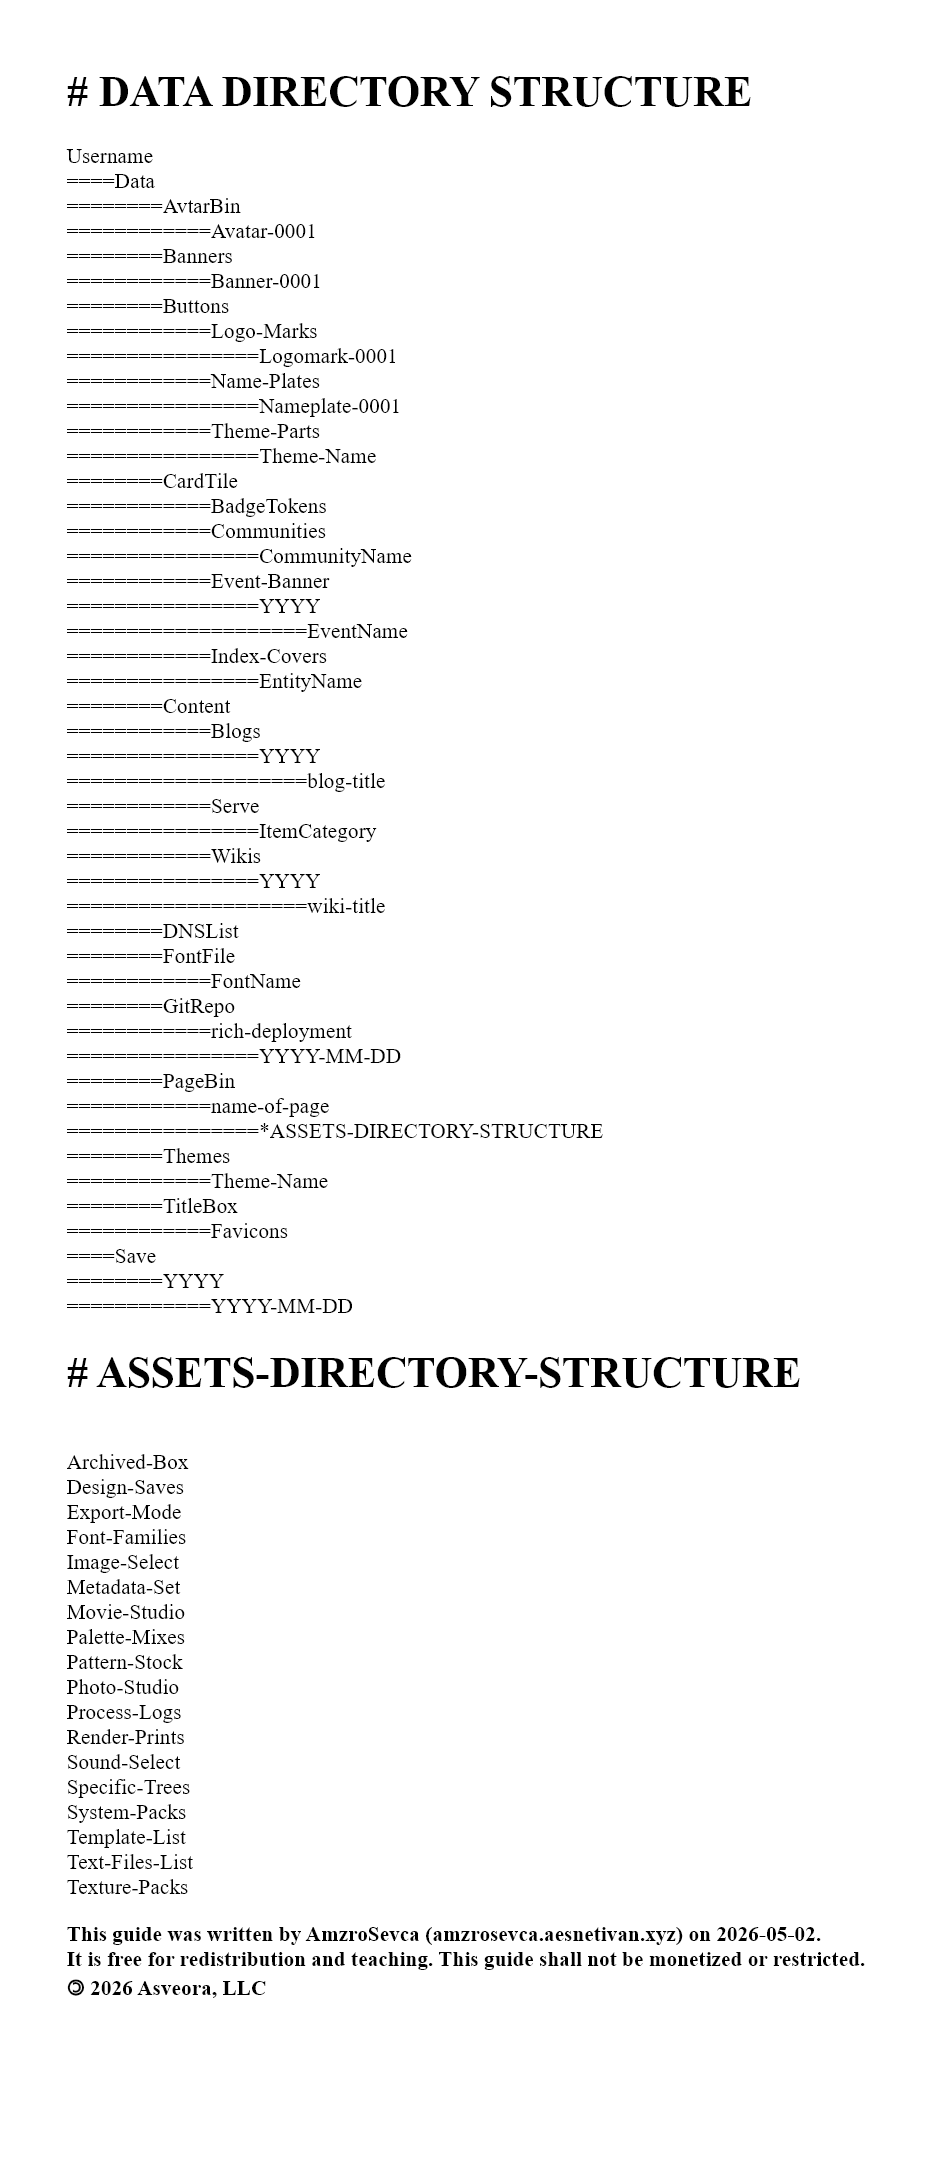
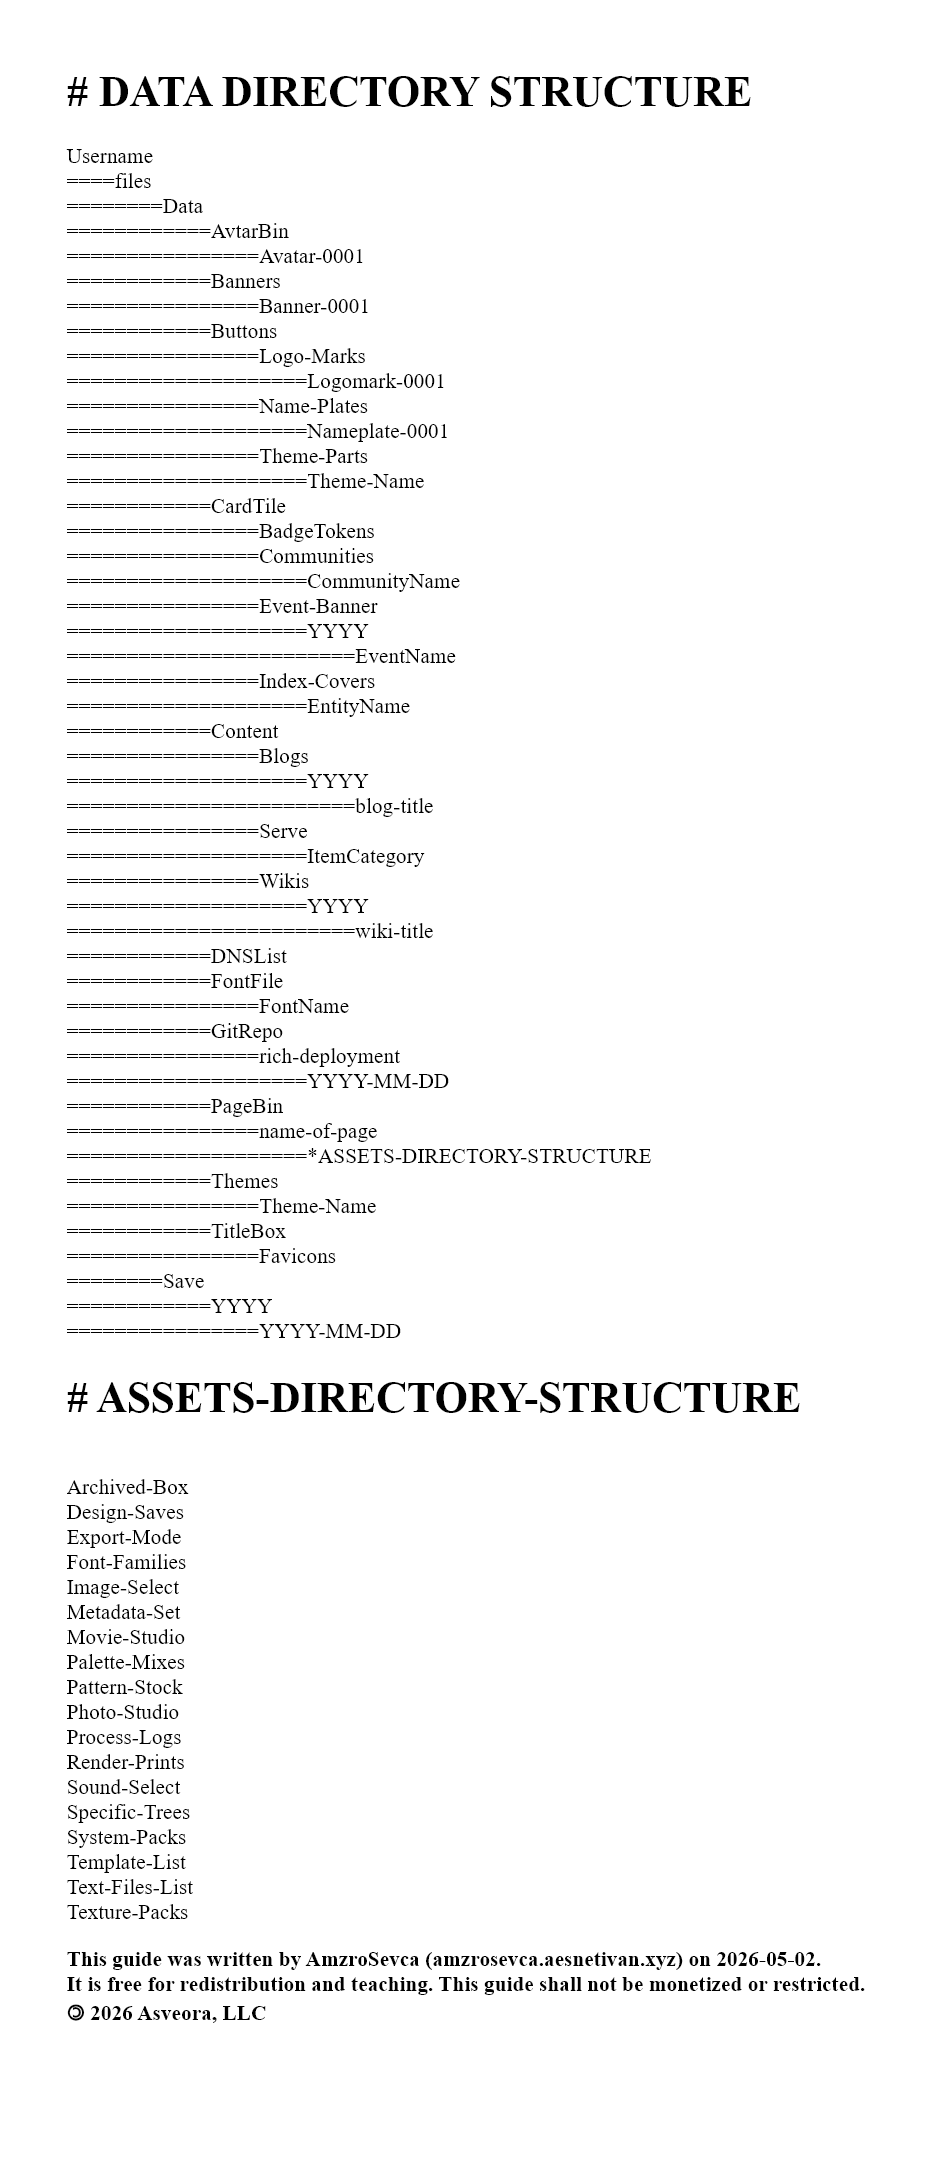
Documentation Update
Documentation update concerning the structuring of the user directory model.

Changed region(s): [[0.0617, 0.0931, 0.9255, 0.9306], [0.1234, 0.062, 0.1543, 0.0931]]

diff --git a/files/index.html b/files/index.html
@@ -227,7 +227,7 @@
 
 				<div class="profile-home-card-entry">
 					<div class="profile-home-card-img-area">
-						<img class="profile-home-card-image" alt="Blank white image." data-original-height="512" data-original-width="512" width="3840" height="2160" src="/media/Content/Wikis/wiki-page-v1/Image-Select/Pexels_Iriser_Berries_Photo_CMS.jpg"/>
+						<img class="profile-home-card-image" alt="Wiki Entry" data-original-height="512" data-original-width="512" width="3840" height="2160" src="https://cdn.asveora.social/Content/Wikis/wiki-page-v1/Image-Select/Pexels_Iriser_Berries_Photo_CMS.jpg"/>
 					</div>
 					<div class="profile-home-card-text-area">
 						<span class="profile-home-card-text"><b>Wiki<br>Entry</b></span>
@@ -238,10 +238,10 @@
 
 				<div class="profile-home-card-entry">
 					<div class="profile-home-card-img-area">
-						<img class="profile-home-card-image" alt="Blank white image." data-original-height="512" data-original-width="512" width="3840" height="2160" src="/media/Content/Wikis/wiki-page-v1/Image-Select/Pexels_Iriser_Berries_Photo_CMS.jpg"/>
+						<img class="profile-home-card-image" alt="Quick Deployment" data-original-height="512" data-original-width="512" width="3840" height="2160" src="https://cdn.asveora.social/Content/Wikis/quick-deployment/Image-Select/Quick_Deployment_Cover_M4X.png"/>
 					</div>
 					<div class="profile-home-card-text-area">
-						<span class="profile-home-card-text"><b>Wiki<br>Entry</b></span>
+						<span class="profile-home-card-text"><b>Quick<br>Deploy</b></span>
 					</div>
 				</div>
               
@@ -249,10 +249,10 @@
               
 				<div class="profile-home-card-entry">
 					<div class="profile-home-card-img-area">
-						<img class="profile-home-card-image" alt="Blank white image." data-original-height="512" data-original-width="512" width="3840" height="2160" src="/media/Content/Wikis/wiki-page-v1/Image-Select/Pexels_Iriser_Berries_Photo_CMS.jpg"/>
+						<img class="profile-home-card-image" alt="Versions" data-original-height="512" data-original-width="512" width="3840" height="2160" src="https://cdn.asveora.social/Content/Wikis/versions/Image-Select/Frame_Versions_Cover_M4X.png"/>
 					</div>
 					<div class="profile-home-card-text-area">
-						<span class="profile-home-card-text"><b>Wiki<br>Entry</b></span>
+						<span class="profile-home-card-text"><b>Versions</b></span>
 					</div>
 				</div>
             
@@ -260,10 +260,10 @@
               
 				<div class="profile-home-card-entry">
 					<div class="profile-home-card-img-area">
-						<img class="profile-home-card-image" alt="Blank white image." data-original-height="512" data-original-width="512" width="3840" height="2160" src="/media/Content/Wikis/wiki-page-v1/Image-Select/Pexels_Iriser_Berries_Photo_CMS.jpg"/>
+						<img class="profile-home-card-image" alt="Redirect" data-original-height="512" data-original-width="512" width="3840" height="2160" src="https://cdn.asveora.social/Content/Wikis/redirect/Image-Select/Redirection_Page_Cover_M4X.png"/>
 					</div>
 					<div class="profile-home-card-text-area">
-						<span class="profile-home-card-text"><b>Wiki<br>Entry</b></span>
+						<span class="profile-home-card-text"><b>Redirect</b></span>
 					</div>
 				</div>
               
@@ -271,10 +271,10 @@
               
 				<div class="profile-home-card-entry">
 					<div class="profile-home-card-img-area">
-						<img class="profile-home-card-image" alt="Blank white image." data-original-height="512" data-original-width="512" width="3840" height="2160" src="/media/Content/Wikis/wiki-page-v1/Image-Select/Pexels_Iriser_Berries_Photo_CMS.jpg"/>
+						<img class="profile-home-card-image" alt="Age Verification" data-original-height="512" data-original-width="512" width="3840" height="2160" src="https://cdn.asveora.social/Content/Wikis/age-verification/Image-Select/Age_Verification_Cover_M4X.png"/>
 					</div>
 					<div class="profile-home-card-text-area">
-						<span class="profile-home-card-text"><b>Wiki<br>Entry</b></span>
+						<span class="profile-home-card-text"><b>Age<br>Verify</b></span>
 					</div>
 				</div>
               
@@ -400,7 +400,7 @@
 
 	<a href="profile-v4.html">
 		<div class="profile-home-return-button">
-			<img class="profile-home-rb-image" alt="Asveora logo." data-original-height="512" data-original-width="512" src="/media/Buttons/Theme-Parts/power_button.png" width="100" height="100"/>
+			<img class="profile-home-rb-image" alt="Enable Extras" data-original-height="512" data-original-width="512" src="/media/Buttons/Theme-Parts/power_button.png" width="100" height="100"/>
 			<span class="profile-home-lb-text-02"><b>Enable Extras</b></span>
 		</div>
 	</a>
@@ -410,7 +410,7 @@
 
 	<a href="https://wheelcore.asveora.social/">
 		<div class="profile-home-return-button">
-			<img class="profile-home-rb-image" alt="Asveora logo." data-original-height="512" data-original-width="512" src="/media/Buttons/Theme-Parts/wheelcore_0001.png" width="100" height="100"/>
+			<img class="profile-home-rb-image" alt="Visit Wheelcore" data-original-height="512" data-original-width="512" src="/media/Buttons/Theme-Parts/wheelcore_0001.png" width="100" height="100"/>
 			<span class="profile-home-lb-text-02"><b>Visit Wheelcore</b></span>
 		</div>
 	</a>
@@ -420,7 +420,7 @@
 
 	<a href="landhub-demo.html">
 		<div class="profile-home-return-button">
-			<img class="profile-home-rb-image" alt="Asveora logo." data-original-height="512" data-original-width="512" src="/media/Buttons/Theme-Parts/landhub.png" width="100" height="100"/>
+			<img class="profile-home-rb-image" alt="Return to LandHub" data-original-height="512" data-original-width="512" src="/media/Buttons/Theme-Parts/landhub.png" width="100" height="100"/>
 			<span class="profile-home-lb-text-02"><b>Return to LandHub</b></span>
 		</div>
 	</a>
@@ -430,7 +430,7 @@
 
 	<a href="https://www.asveora.social/p/app.html">
 		<div class="profile-home-return-button">
-			<img class="profile-home-rb-image" alt="Asveora logo." data-original-height="512" data-original-width="512" src="/media/Buttons/Theme-Parts/asveora_icon.png" width="100" height="100"/>
+			<img class="profile-home-rb-image" alt="Return to Asveora" data-original-height="512" data-original-width="512" src="/media/Buttons/Theme-Parts/asveora_icon.png" width="100" height="100"/>
 			<span class="profile-home-lb-text-02"><b>Return to Asveora</b></span>
 		</div>
 	</a>

diff --git a/files/dir-map/directory-mapping.html b/files/dir-map/directory-mapping.html
@@ -16,52 +16,53 @@
 
 <p>
 Username
-<br>====Data
-<br>========AvtarBin
-<br>============Avatar-0001
-<br>========Banners
-<br>============Banner-0001
-<br>========Buttons
-<br>============Logo-Marks
-<br>================Logomark-0001
-<br>============Name-Plates
-<br>================Nameplate-0001
-<br>============Theme-Parts
+<br>====files
+<br>========Data
+<br>============AvtarBin
+<br>================Avatar-0001
+<br>============Banners
+<br>================Banner-0001
+<br>============Buttons
+<br>================Logo-Marks
+<br>====================Logomark-0001
+<br>================Name-Plates
+<br>====================Nameplate-0001
+<br>================Theme-Parts
+<br>====================Theme-Name
+<br>============CardTile
+<br>================BadgeTokens
+<br>================Communities
+<br>====================CommunityName
+<br>================Event-Banner
+<br>====================YYYY
+<br>========================EventName
+<br>================Index-Covers
+<br>====================EntityName
+<br>============Content
+<br>================Blogs
+<br>====================YYYY
+<br>========================blog-title
+<br>================Serve
+<br>====================ItemCategory
+<br>================Wikis
+<br>====================YYYY
+<br>========================wiki-title
+<br>============DNSList
+<br>============FontFile
+<br>================FontName
+<br>============GitRepo
+<br>================rich-deployment
+<br>====================YYYY-MM-DD
+<br>============PageBin
+<br>================name-of-page
+<br>====================*ASSETS-DIRECTORY-STRUCTURE
+<br>============Themes
 <br>================Theme-Name
-<br>========CardTile
-<br>============BadgeTokens
-<br>============Communities
-<br>================CommunityName
-<br>============Event-Banner
-<br>================YYYY
-<br>====================EventName
-<br>============Index-Covers
-<br>================EntityName
-<br>========Content
-<br>============Blogs
-<br>================YYYY
-<br>====================blog-title
-<br>============Serve
-<br>================ItemCategory
-<br>============Wikis
-<br>================YYYY
-<br>====================wiki-title
-<br>========DNSList
-<br>========FontFile
-<br>============FontName
-<br>========GitRepo
-<br>============rich-deployment
+<br>============TitleBox
+<br>================Favicons
+<br>========Save
+<br>============YYYY
 <br>================YYYY-MM-DD
-<br>========PageBin
-<br>============name-of-page
-<br>================*ASSETS-DIRECTORY-STRUCTURE
-<br>========Themes
-<br>============Theme-Name
-<br>========TitleBox
-<br>============Favicons
-<br>====Save
-<br>========YYYY
-<br>============YYYY-MM-DD
 </p>
 
 <h1># ASSETS-DIRECTORY-STRUCTURE</h1>

diff --git a/files/dir-map/directory-mapping-README.md b/files/dir-map/directory-mapping-README.md
@@ -1,11 +1,29 @@
-# DIRECTORY MAPPING
+# Directory Mapping
 
-This is a directory model template that is used for keeping files and associated objects organized within Asveora's project space. To get a look at the general layout open either the data-map.png file, data-map.txt file, or the data-map.html file. This model was created by AmzroSevca. You are free to use this model to keep your files organized and are encouraged to do so!
+This is a directory model template that is used for keeping files and associated objects organized within Asveora's project space. To get a look at the general layout open either the data-map.png file, data-map.txt file, or the data-map.html file. This model was created by AmzroSevca and the "Assets Directory Structure" was inherited from one of their other projects, Prisxane. You are free to use this model to keep your files organized and are encouraged to do so as it gives everything a proper home for life!
 
-If you want to use this template, make a copy of the "Username" folder and then store it somewhere in your desktop or filesystem environment where you want to store everything related to Asveora. I recommend making a dedicated folder called "Asveora" or "Asveora-Social" or something like that. Then put your copy of the Username folder in there. Now rename the folder with your Asveora username or the name of the wheelcore, landhub, system, federation, etc. that you are going to be using the folder for. Now begin storing all of your data there! You can move all of your pages, images, and other assets into their new homes from the git repo that you pulled.
+# Initial Configuration
+
+If you want to use this template, make a copy of the "Username" folder and then store it somewhere in your desktop or filesystem environment where you want to store everything related to Asveora. I recommend making a dedicated folder called "Asveora" or "Asveora-Social" or something like that. Then put your copy of the Username folder in there. Now rename the folder with your Asveora username or the name of the wheelcore, landhub, system, federation, etc. that you are going to be using the folder for.
+
+Now you can begin storing all of your data there! You can move all of your pages, images, and other assets into their new homes from the git repo that you pulled. To access your site locally for development or browsing, make sure to move or copy all of the js and json local server files of this repo to the root of your "Username" folder so that you can run "node server.js" from the command line and have express.js already configured. Be sure to also move the index.html file into the root of the "files" folder that is under the "Username" folder so that your local server has a default page to load. The index.html page is usually just a clone of whatever page you want have as the default landing. For most people it will be the profile-home.html page. Below is what the structure should look like:
+
+* Username
+	* server.js
+	* package-lock.json
+	* package.json
+	* node_modules
+	* files
+		* Data
+		* Save
+		* index.html
+
+<br>
+
+# Why is it like this?
 
 This process might seem confusing at first, but the directory structure of the git repo is different from the standard Asveora one since it is arranged for development first and foremost. If you have any questions, please check the GET-HELP.txt file in the root directory of this repo you just pulled! :)
 
 **This guide was written by AmzroSevca (amzrosevca.aesnetivan.xyz) on 2026-05-02.**<br>
 **It is free for redistribution and teaching. This guide shall not be monetized or restricted.**<br>
-**🄯 2026 Asveora, LLC**
+**🄯 2026 Asveora, LLC
